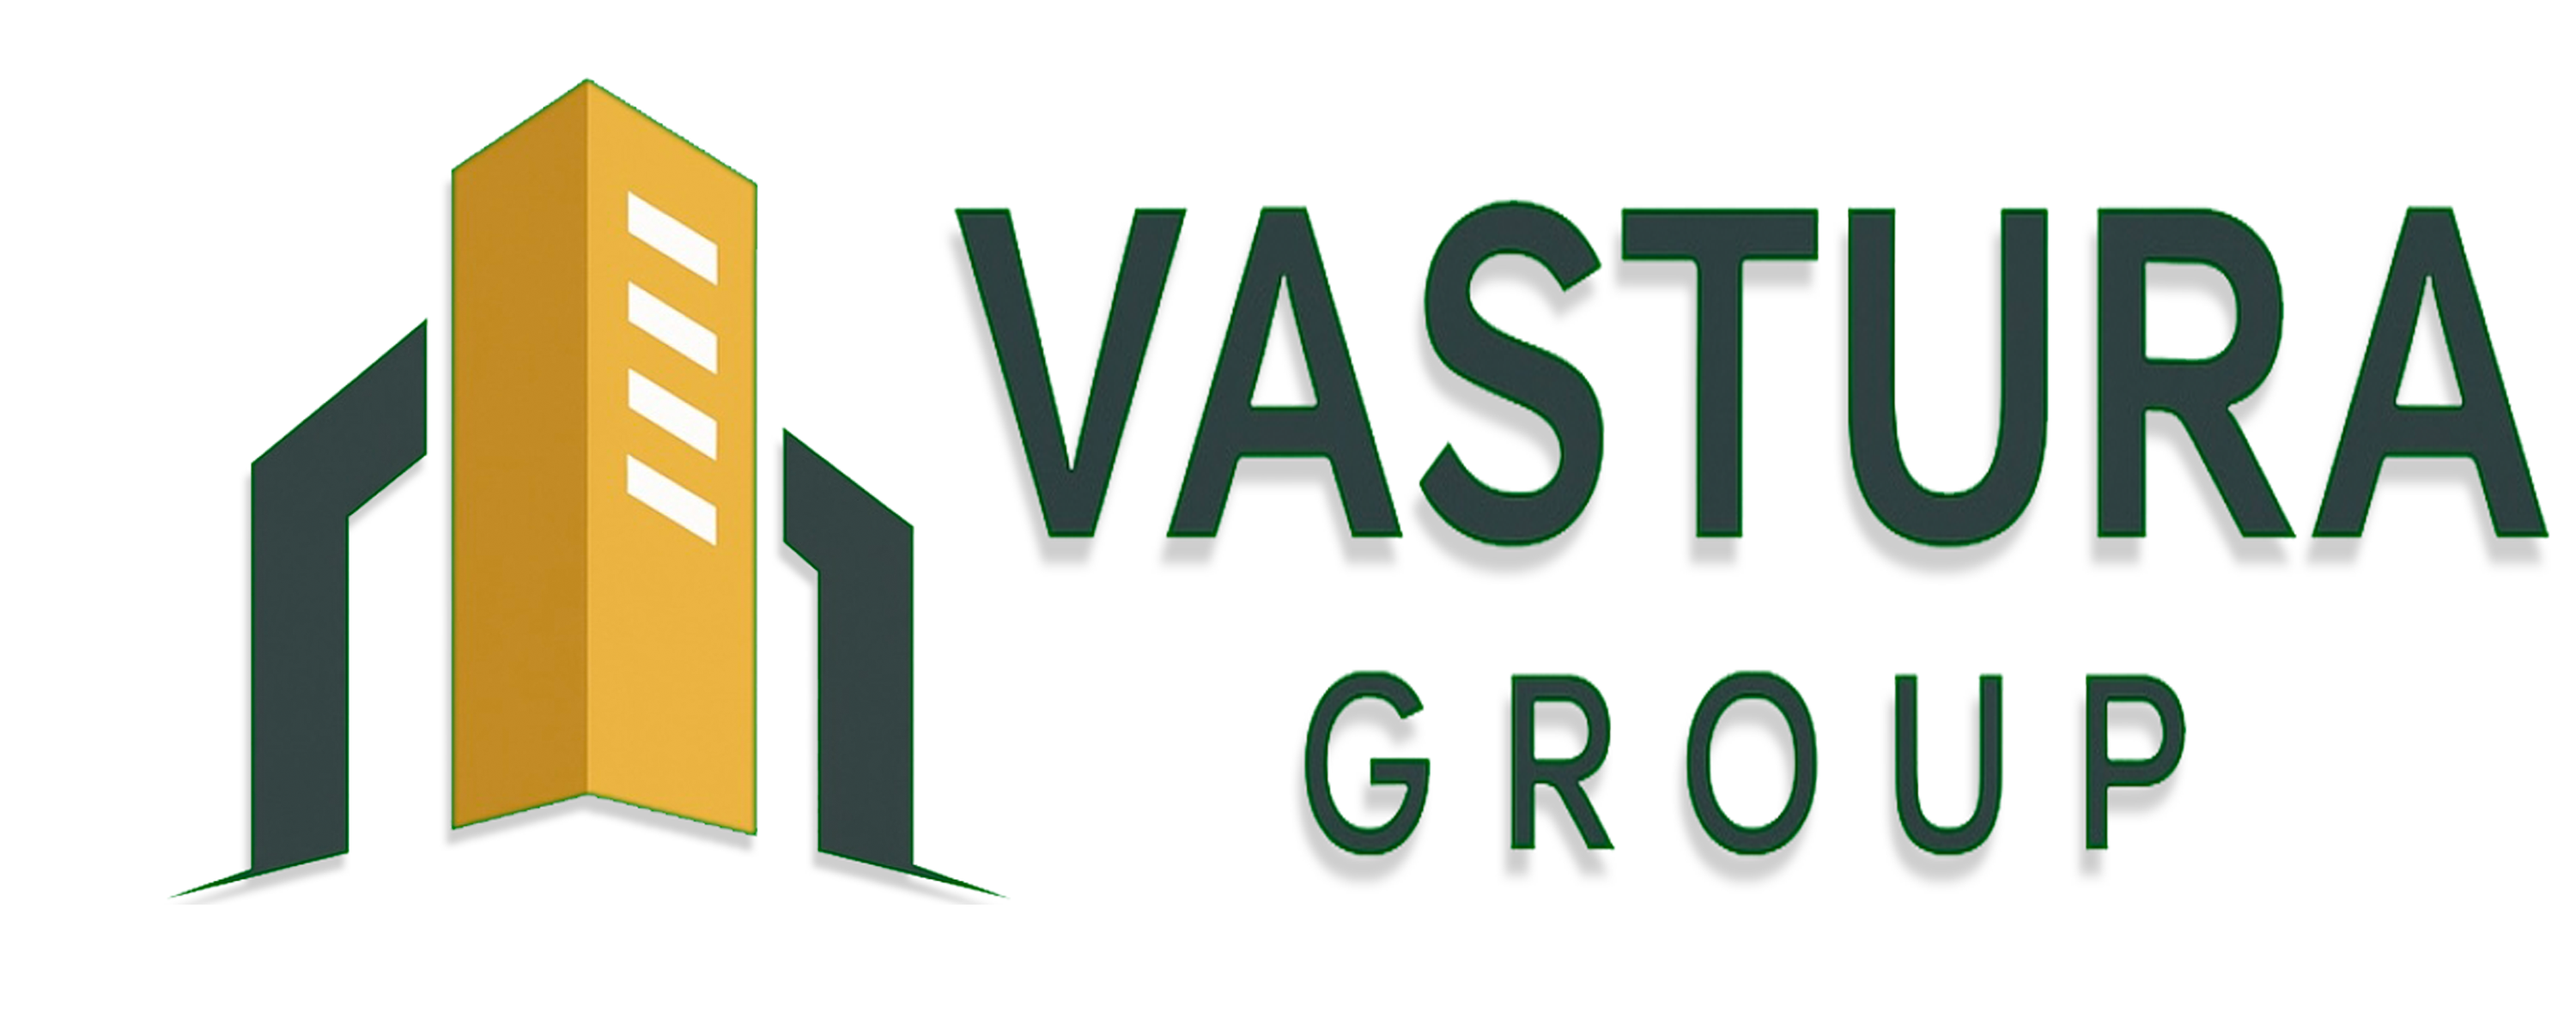
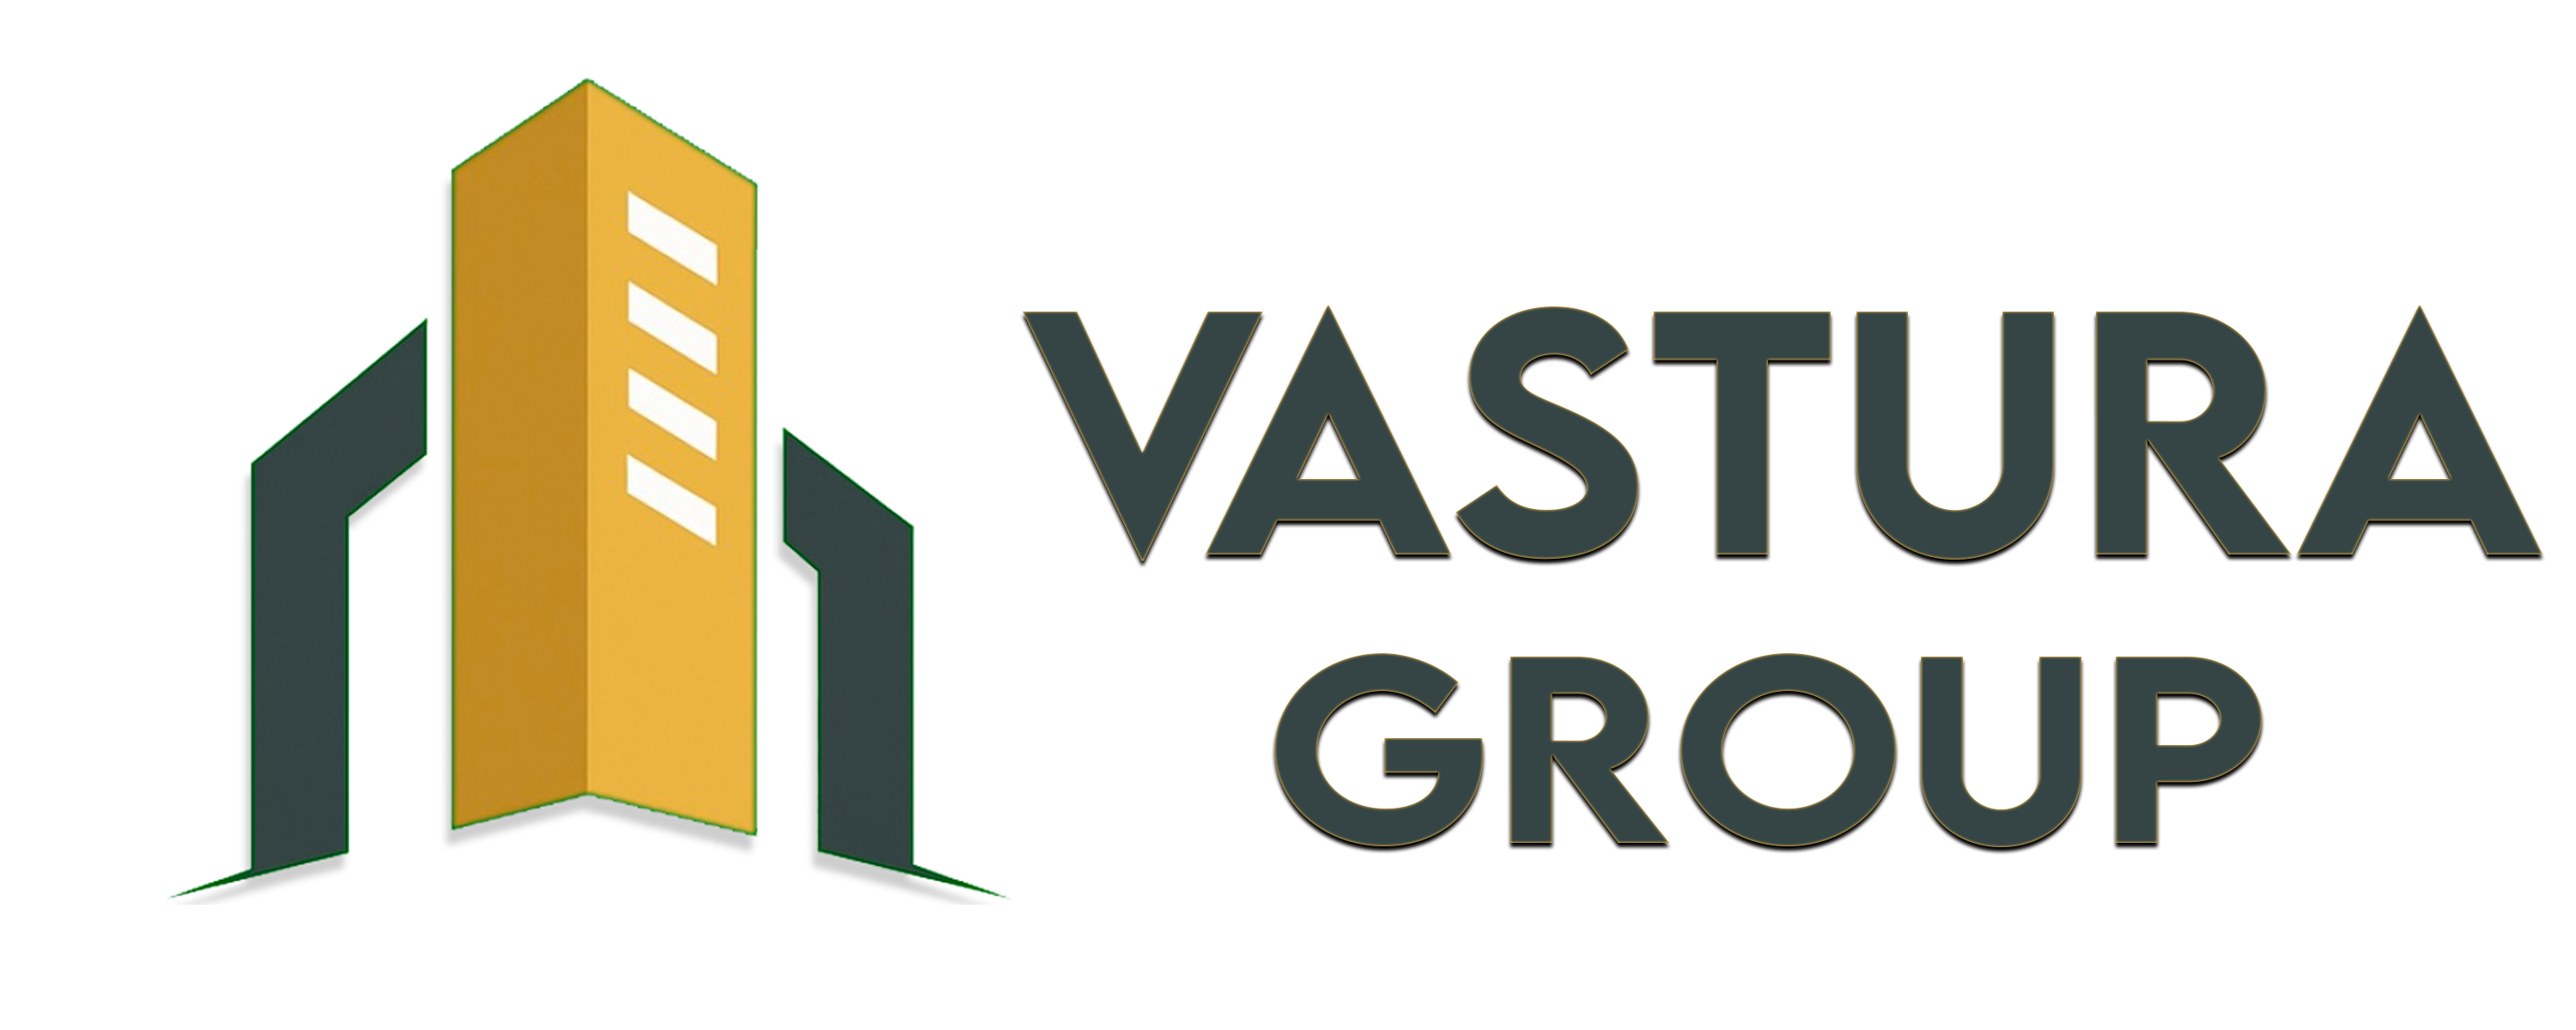
BIG NIG Update

Changed region(s): [[0.372, 0.185, 0.992, 0.555], [0.496, 0.6167, 0.899, 0.8633]]

diff --git a/src/RealEstateWeb.jsx b/src/RealEstateWeb.jsx
@@ -2061,8 +2061,8 @@ const GS = () => (
     @media(max-width:640px){
       nav{background:linear-gradient(105deg,#ffffff 0%,#e8f9fb 30%,#a8dde8 62%,#B8962A 100%)!important;backdrop-filter:none!important;padding:0 4%!important;overflow:visible!important}
       nav>div:not(.mobile-dropdown){height:60px!important;gap:10px!important}
-      /* Fix 10: logo lebih kecil di mobile */
-      nav img{height:42px!important;max-width:86px!important;width:auto!important}
+      /* Fix 10: logo mobile — diperbesar */
+      nav img{height:52px!important;max-width:160px!important;width:auto!important}
     }
     /* Fix logo wrap — tablet & smartphone (semua layar ≤900px) */
     @media(max-width:900px){
@@ -2070,7 +2070,7 @@ const GS = () => (
       .navbar-logo-wrap > div > div:first-child { width: 40px !important; height: 40px !important; border-radius: 8px !important; }
       .navbar-logo-wrap > div > div:first-child svg { width: 18px !important; height: 18px !important; }
       .navbar-logo-wrap > div > span.logo-brand { font-size: 0.82rem !important; line-height: 1.15 !important; }
-      .navbar-logo-wrap img { height: 40px !important; max-width: 80px !important; }
+      .navbar-logo-wrap img { height: 52px !important; max-width: 160px !important; }
     }
 
     /* 2. Hero Slideshow — readable height, no side gradients overflow */
@@ -2811,14 +2811,14 @@ function CEF({ val, multiline, onChange, onSave }) {
 }
 
 /* ─────────────── LOGO DISPLAY ─────────────── */
-const VASTURA_LOGO_URL = "https://res.cloudinary.com/dum9j7yn1/image/upload/v1782098893/Vastura_Origina_No-BG2_vbxuif.png";
+const VASTURA_LOGO_URL = "https://res.cloudinary.com/dum9j7yn1/image/upload/v1782103987/Vastura_Origina_No-BG2_g59oud.png";
 
 function LogoDisplay({ content, size = "nav" }) {
   const isMobileNav = size === "mobile-nav";
   const isFooter    = size === "footer";
   const isAdmin     = size === "admin";
-  const h    = isMobileNav ? 38 : isAdmin ? 32 : isFooter ? 56 : 62;
-  const maxW = isMobileNav ? 120 : isAdmin ? 90 : isFooter ? 160 : 190;
+  const h    = isMobileNav ? 52 : isAdmin ? 32 : isFooter ? 56 : 62;
+  const maxW = isMobileNav ? 160 : isAdmin ? 90 : isFooter ? 160 : 190;
   return (
     <img
       src={VASTURA_LOGO_URL}